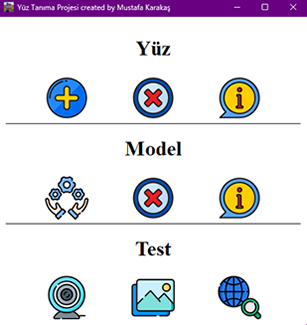
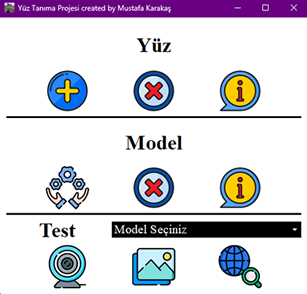
app up

diff --git a/src/main/Application.py b/src/main/Application.py
@@ -1,52 +1,85 @@
+import os
+
 from PyQt5 import QtWidgets, QtGui, QtCore
-from PyQt5.QtGui import QIcon
-from PyQt5.QtWidgets import QWidget, QPushButton, QVBoxLayout, QLabel, QLineEdit, QSizePolicy, QHBoxLayout
+from PyQt5.QtGui import QIcon, QFont
+from PyQt5.QtWidgets import QWidget, QPushButton, QVBoxLayout, QLabel, QLineEdit, QSizePolicy, QHBoxLayout, QComboBox, \
+    QMessageBox, QFrame
 
 from src.resources.Environments import pngAdd, pngDelete, pngInfo, pngTrain, pngCamera, pngUrl, pngMustafa, \
-    pngFolder, pngImageUrl, pngYoutube, pngPicture
+    pngFolder, pngImageUrl, pngYoutube, pngPicture, pathModels
+
+
+def getLine():
+    line = QFrame()
+    line.setFrameShape(QFrame.HLine)
+    line.setFrameShadow(QFrame.Sunken)
+    line.setStyleSheet("background-color: black;")
+    return line
 
 
 # Label
-def getLabelFeatures(labelName, isUseFont, isUseStyleSheet):
+def getLabelFeatures(lbl, isUseFont):
     if isUseFont:
         fontLabel = QtGui.QFont("Times New Roman", 25)
         fontLabel.setBold(True)
-        labelName.setFont(fontLabel)
-    if isUseStyleSheet:
-        labelName.setStyleSheet("border-top: 1px solid black;")
-    labelName.setAlignment(QtCore.Qt.AlignCenter)
-    return labelName
+        lbl.setFont(fontLabel)
+    lbl.setAlignment(QtCore.Qt.AlignCenter)
+    return lbl
 
 
 # Button
-def getButtonFeatures(buttonName, pngName):
+def getButtonFeatures(btn, pngName):
     butonSizes = (70, 70)
     fontButton = QtGui.QFont("Times New Roman", 15)
-    buttonName.setFont(fontButton)
-    buttonName.setFixedSize(*butonSizes)
-    buttonName.setIcon(QtGui.QIcon(pngName))
-    buttonName.setIconSize(QtCore.QSize(*butonSizes))
-    buttonName.setStyleSheet("background-color: transparent;")
-    return buttonName
+    btn.setFont(fontButton)
+    btn.setFixedSize(*butonSizes)
+    btn.setIcon(QtGui.QIcon(pngName))
+    btn.setIconSize(QtCore.QSize(*butonSizes))
+    btn.setStyleSheet("background-color: transparent;")
+    return btn
+
+
+# ComboBox
+def getComboBoxFeatures(cmbBox):
+    fontComboBox = QtGui.QFont("Times New Roman", 15)
+    cmbBox.setFont(fontComboBox)
+    cmbBox.setStyleSheet("background-color: black; color: white;")
+    return cmbBox
+
+
+def getMsgBoxFeatures(msgBox, title, txt, iconType, btnType):
+    font = QFont()
+    font.setFamily("Times New Roman")
+    font.setPointSize(12)
+    msgBox.setIcon(iconType)  # QMessageBox.Information
+    msgBox.setText(txt)
+    msgBox.setFont(font)
+    msgBox.setWindowTitle(title)
+    msgBox.setStandardButtons(btnType)  # QMessageBox.Ok
+    return msgBox
 
 
 class MainWidget(QWidget):
     def __init__(self):
         super().__init__()
+        self.selectedModel = "Model Seçiniz"
         self.initUI()
 
     def closeEvent(self, event):
         reply = QtWidgets.QMessageBox.question(self, 'Uyarı', 'Programdan çıkmak istiyor musunuz?',
                                                QtWidgets.QMessageBox.Yes | QtWidgets.QMessageBox.No,
                                                QtWidgets.QMessageBox.No)
+
         if reply == QtWidgets.QMessageBox.Yes:
+            for widget in QtWidgets.QApplication.topLevelWidgets():
+                widget.close()
             event.accept()
         else:
             event.ignore()
 
     def initUI(self):
         mainWith = 500
-        mainHeight = 500
+        mainHeight = 450
         screen = QtWidgets.QApplication.desktop().screenGeometry()
         screenWidth, screenHeight = screen.width(), screen.height()
         self.setGeometry(int(screenWidth / 2 - int(mainWith / 2)), int(screenHeight / 2 - int(mainHeight / 2)),
@@ -58,7 +91,7 @@ class MainWidget(QWidget):
         #########
         # Y Ü Z #
         #########
-        labelFace = getLabelFeatures(QLabel('Yüz'), isUseFont=True, isUseStyleSheet=False)
+        labelFace = getLabelFeatures(QLabel('Yüz'), isUseFont=True)
         # Yüzler için butonlar
         btnFaceAdd = getButtonFeatures(QPushButton(self), pngAdd)
         btnFaceAdd.clicked.connect(self.faceAddScreen)
@@ -77,7 +110,7 @@ class MainWidget(QWidget):
         # M O D E L#
         ############
         # Modeller etiketi
-        labelModel = getLabelFeatures(QLabel('Model'), isUseFont=True, isUseStyleSheet=True)
+        labelModel = getLabelFeatures(QLabel('Model'), isUseFont=True)
         # Modeller için butonlar
         btnModelTrain = getButtonFeatures(QPushButton(self), pngTrain)
         btnModelTrain.clicked.connect(self.modelTrainScreen)
@@ -95,7 +128,23 @@ class MainWidget(QWidget):
         # T E S T #
         ###########
         # Test etiketi
-        labelTest = getLabelFeatures(QLabel('Test'), isUseFont=True, isUseStyleSheet=True)
+        labelTest = getLabelFeatures(QLabel('Test'), isUseFont=True)
+
+        # ComboBox ayarı
+        # Dizin içindeki .h5 uzantılı dosyaları bulma
+        modelFiles = [f for f in os.listdir(pathModels) if f.endswith('.h5')]
+        # Dosya isimlerinden model adlarını ayırma
+        modelNames = ['Model Seçiniz'] + [os.path.splitext(f)[0] + ".h5" for f in modelFiles]
+        # ComboBox oluşturma ve model isimlerini ekleme
+        comboModel = getComboBoxFeatures(QComboBox(self))
+        comboModel.addItems(modelNames)
+
+        # Seçili olan modelin adını alma
+        def on_combobox_selection(modelName):
+            self.selectedModel = modelName
+
+        comboModel.currentIndexChanged.connect(lambda index: on_combobox_selection(comboModel.itemText(index)))
+
         # Test için butonlar
         btnTestCamera = getButtonFeatures(QPushButton(self), pngCamera)
         btnTestCamera.clicked.connect(self.testCameraScreen)
@@ -105,20 +154,27 @@ class MainWidget(QWidget):
         btnTestUrl.clicked.connect(self.testUrlScreen)
         # Test için düzenleyici
         layoutTest = QHBoxLayout()
+
+        # Düzenleyiciye ekleme
         layoutTest.addWidget(btnTestCamera)
         layoutTest.addWidget(btnTestPicture)
         layoutTest.addWidget(btnTestUrl)
 
         # Ana düzenleyici
-        layout = QVBoxLayout()
-        layout.addWidget(labelFace)
-        layout.addLayout(layoutFace)
-        layout.addWidget(labelModel)
-        layout.addLayout(layoutModel)
-        layout.addWidget(labelTest)
-        layout.addLayout(layoutTest)
+        layoutV = QVBoxLayout()
+        layoutH = QHBoxLayout()
 
-        self.setLayout(layout)
+        layoutV.addWidget(labelFace)
+        layoutV.addLayout(layoutFace)
+        layoutV.addWidget(getLine())
+        layoutV.addWidget(labelModel)
+        layoutV.addLayout(layoutModel)
+        layoutH.addWidget(labelTest)
+        layoutV.addWidget(getLine())
+        layoutH.addWidget(comboModel)
+        layoutV.addLayout(layoutH)
+        layoutV.addLayout(layoutTest)
+        self.setLayout(layoutV)
         self.show()
 
     # SCREENS
@@ -137,7 +193,7 @@ class MainWidget(QWidget):
         # R E S İ M #
         #############
         # Resim etiketi
-        labelImage = getLabelFeatures(QLabel('Resimden'), isUseFont=True, isUseStyleSheet=False)
+        labelImage = getLabelFeatures(QLabel('Resimden'), isUseFont=True)
         # Resim için butonlar
         btnImageFolder = getButtonFeatures(QPushButton(self), pngFolder)
         btnImageFolder.clicked.connect(self.faceAddImageFolderScreen)
@@ -152,7 +208,7 @@ class MainWidget(QWidget):
         # V İ D E O #
         #############
         # Video etiketi
-        labelVideo = getLabelFeatures(QLabel('Videodan'), isUseFont=True, isUseStyleSheet=True)
+        labelVideo = getLabelFeatures(QLabel('Videodan'), isUseFont=True)
         # Video için butonlar
         btnVideoCamera = getButtonFeatures(QPushButton(self), pngCamera)
         btnVideoCamera.clicked.connect(self.faceAddVideoCameraScreen)
@@ -178,6 +234,7 @@ class MainWidget(QWidget):
         layout = QVBoxLayout()
         layout.addWidget(labelImage)
         layout.addLayout(layoutImage)
+        layout.addWidget(getLine())
         layout.addWidget(labelVideo)
         layout.addLayout(layoutVideo)
 
@@ -374,23 +431,33 @@ class MainWidget(QWidget):
         self.window.show()
 
     def testCameraScreen(self):
-        mainWith = 300
-        mainHeight = 300
-        screen = QtWidgets.QApplication.desktop().screenGeometry()
-        screenWidth, screenHeight = screen.width(), screen.height()
+        modelName = self.selectedModel
+        # Model seçilmemişse uyarı verme
+        if modelName == 'Model Seçiniz':
+            getMsgBoxFeatures(QMessageBox(self), "Uyarı", "Lütfen bir model seçin", QMessageBox.Warning,
+                              QMessageBox.Ok).exec_()
+        else:
+            # Mesaj kutusunu gösterme
+            getMsgBoxFeatures(QMessageBox(self), "Kullanılacak Model", modelName,
+                              QMessageBox.Information, QMessageBox.Ok).exec_()
+            mainWith = 300
+            mainHeight = 300
+            screen = QtWidgets.QApplication.desktop().screenGeometry()
+            screenWidth, screenHeight = screen.width(), screen.height()
 
-        self.window = QWidget()
-        self.window.setWindowTitle('Test Kamera')
-        self.window.setStyleSheet("background-color: white;")
-        self.window.setWindowIcon(QIcon(pngCamera))
+            self.window = QWidget()
+            self.window.setWindowTitle('Test Kamera')
+            self.window.setStyleSheet("background-color: white;")
+            self.window.setWindowIcon(QIcon(pngCamera))
 
-        # Ana düzenleyici
-        layout = QVBoxLayout()
+            # Ana düzenleyici
+            layout = QVBoxLayout()
 
-        self.window.setLayout(layout)
-        self.window.setGeometry(int(screenWidth / 2 - int(mainWith / 2)), int(screenHeight / 2 - int(mainHeight / 2)),
-                                mainWith, mainHeight)
-        self.window.show()
+            self.window.setLayout(layout)
+            self.window.setGeometry(int(screenWidth / 2 - int(mainWith / 2)),
+                                    int(screenHeight / 2 - int(mainHeight / 2)),
+                                    mainWith, mainHeight)
+            self.window.show()
 
     def testImageScreen(self):
         mainWith = 300
